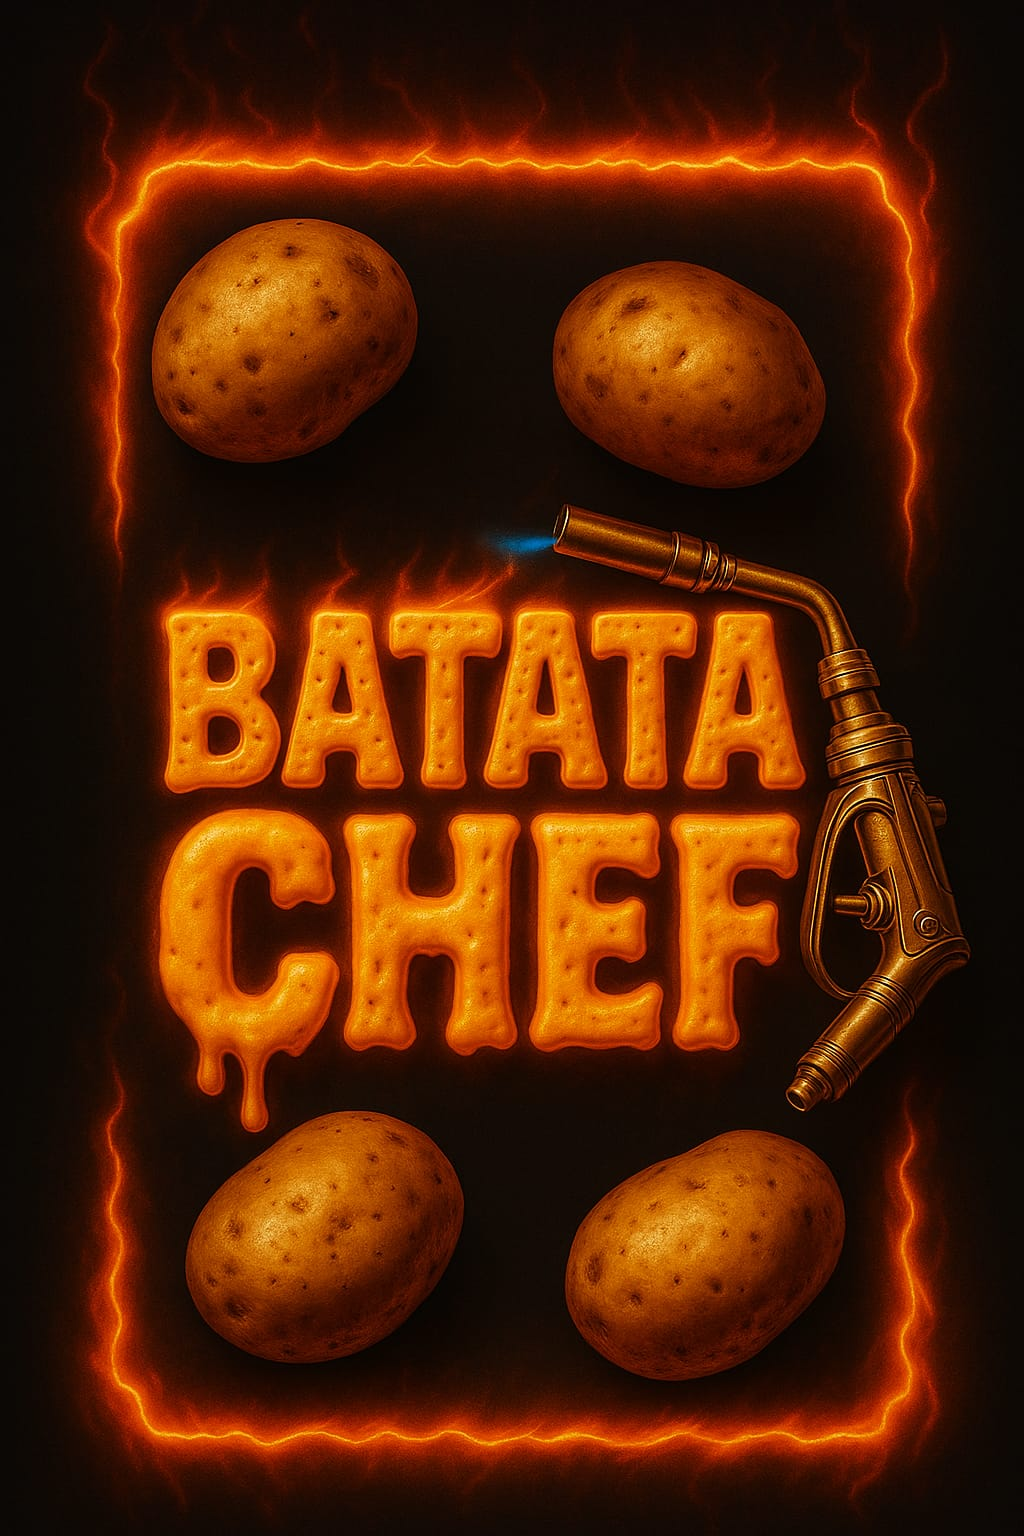
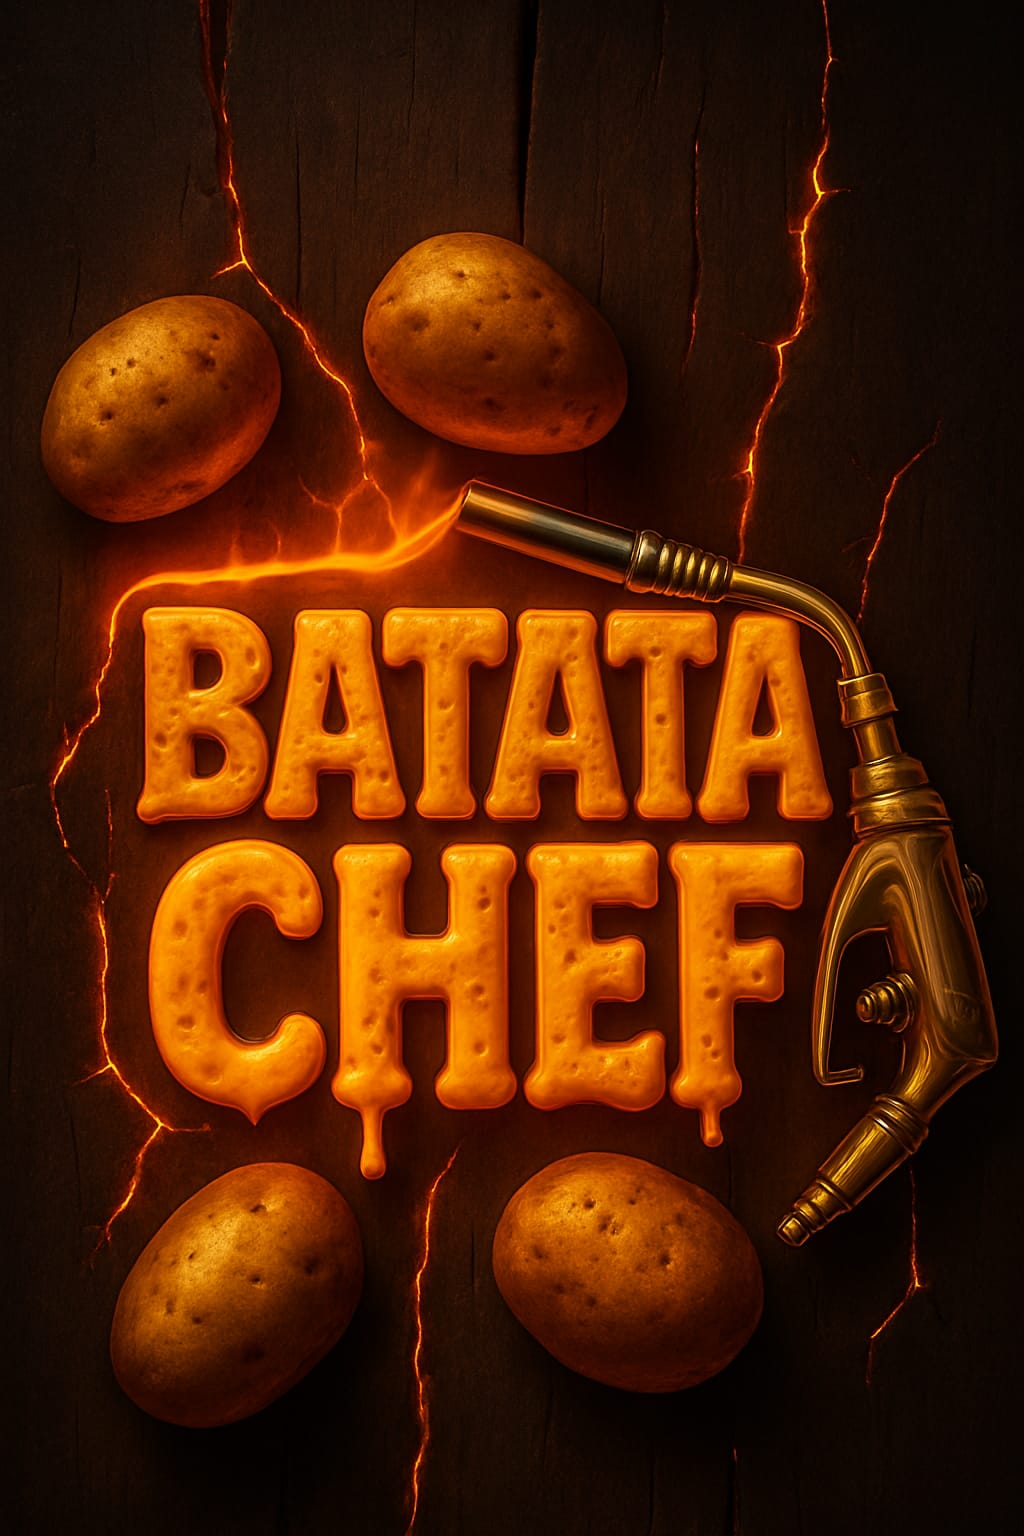
refactor: alterando bg

diff --git a/app/page.tsx b/app/page.tsx
@@ -12,7 +12,7 @@ import Footer from '@/components/sections/Footer';
 
 export default function LandingPage() {
   return (
-    <div className="min-h-screen bg-[#010100] text-white overflow-x-hidden bg-[url('/background.jpeg')] aspect-[9/16] sm:aspect-[16/9] bg-cover bg-center ">
+    <div className="min-h-screen bg-[#010100] text-white overflow-x-hidden w-full h-[100vh] sm:aspect-[16/9] bg-[url('/background.jpeg')] bg-cover bg-center bg-no-repeat overflow-x-hidden">
       <HeroSection />
       <UpsellSection />
       <BenefitsSection />
